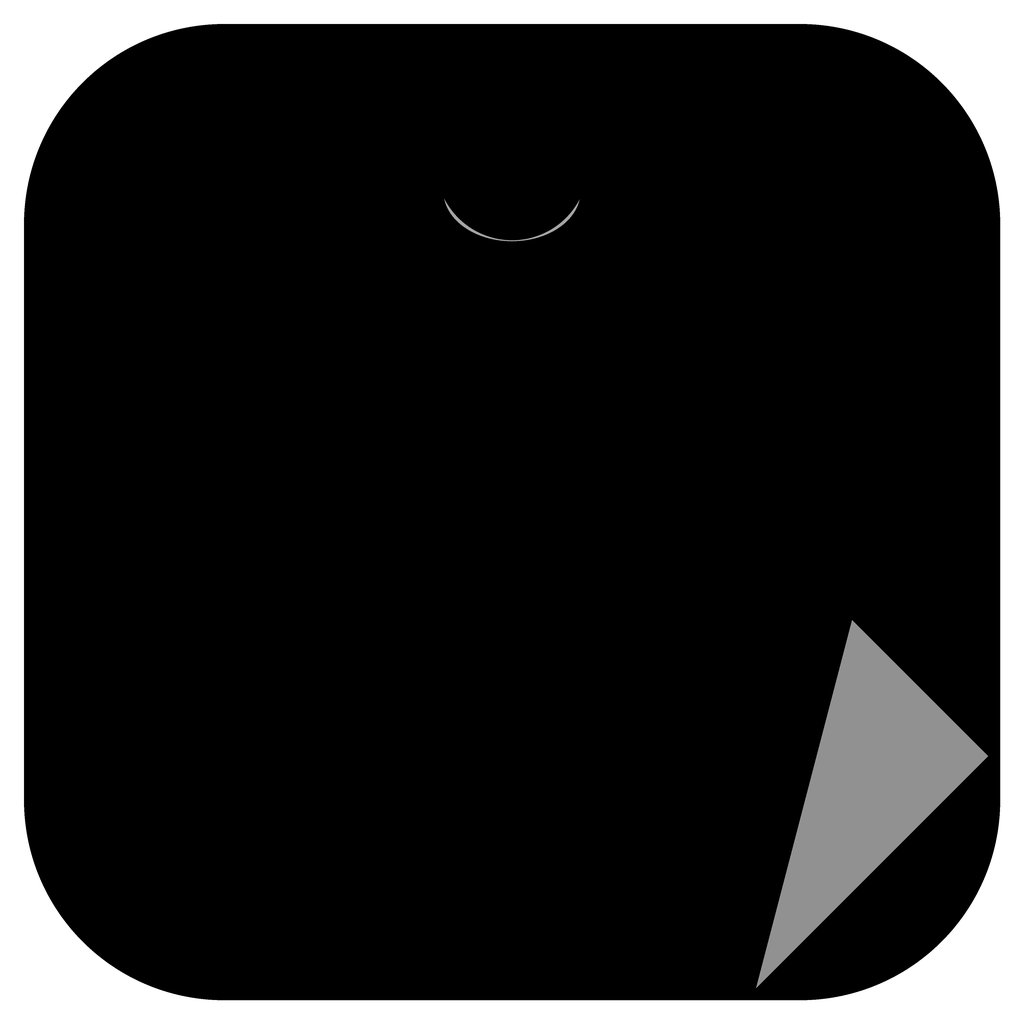
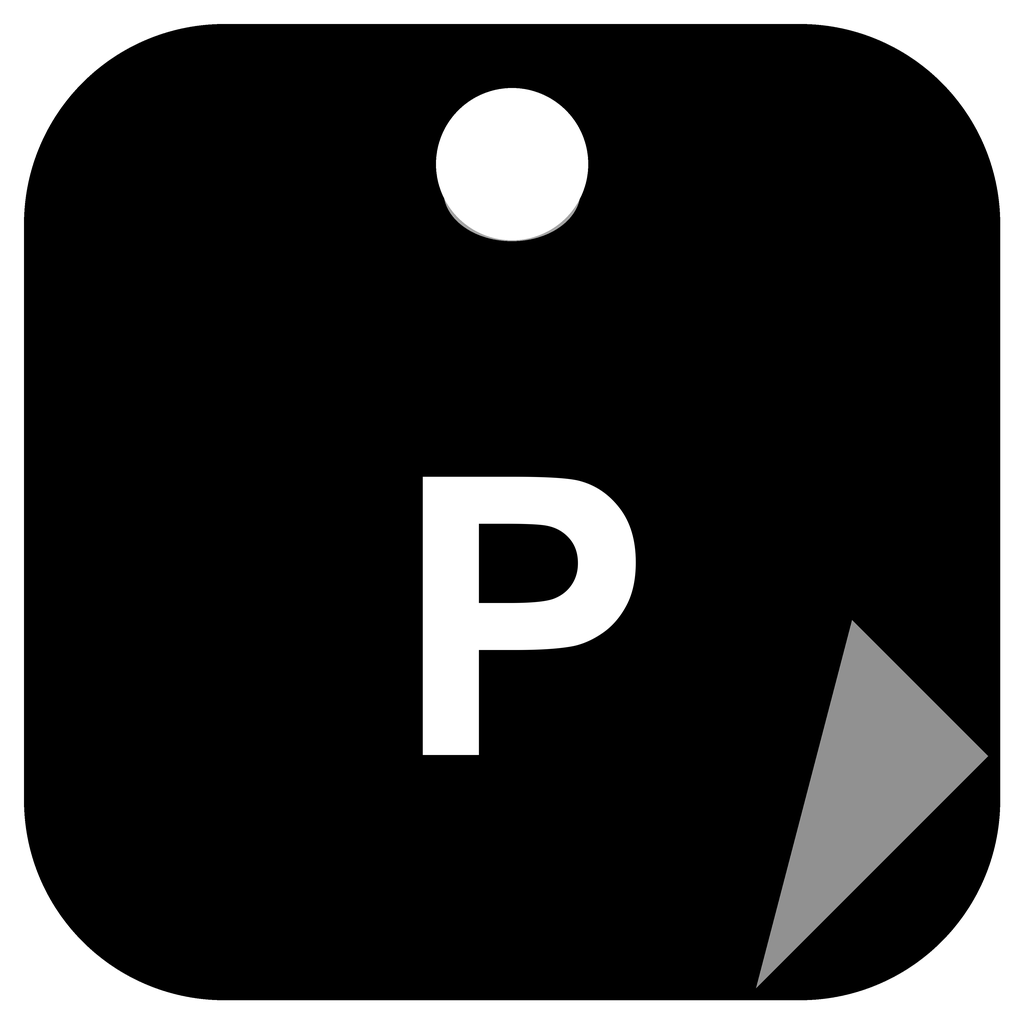
fix(macOS): 菜单栏模板图标加负形镂空(图钉孔/P/卷角)
(synced from private repo cc77d93)

Changed region(s): [[0.4062, 0.4375, 0.625, 0.75], [0.4062, 0.0625, 0.5938, 0.25]]

diff --git a/scripts/gen-icon.py b/scripts/gen-icon.py
@@ -123,7 +123,15 @@ def render(size: int) -> Image.Image:
     # 折痕旁纸面投影（折痕左上侧的窄三角）
     d.polygon([(ax, ay), (bx, by), (bx - int(34 * k), by - int(34 * k))], fill=CURL_SHADOW)
 
-    return img.resize((size, size), Image.LANCZOS)
+    # macOS 菜单栏 template 图标：黑色剪影 + 负形镂空（实心剪影在 18pt 下
+    # 是个无细节的白圆角块,朋友实测反馈）——图钉孔、P 字母、卷角(剪影自带)
+    template = Image.new('RGBA', img.size, (0, 0, 0, 255))
+    template.putalpha(img.getchannel('A'))
+    td = ImageDraw.Draw(template)
+    td.ellipse((px - pr, py - pr, px + pr, py + pr), fill=(0, 0, 0, 0))  # 图钉孔
+    td.text((bx0 + (bx1 - bx0 - tw) / 2 - tb[0], by0 + (by1 - by0 - th) / 2 - tb[1]), 'P', font=font, fill=(0, 0, 0, 0))  # P 负形
+
+    return img.resize((size, size), Image.LANCZOS), template.resize((size, size), Image.LANCZOS)
 
 
 def main() -> None:
@@ -132,12 +140,9 @@ def main() -> None:
     ap.add_argument('--out', default=os.path.join(os.path.dirname(__file__), '..', 'apps', 'desktop', 'resources', 'icon.png'))
     args = ap.parse_args()
     out = os.path.abspath(args.out)
-    img = render(args.size)
+    img, template = render(args.size)
     img.save(out)
     print(f'[gen-icon] ok → {out} ({args.size}x{args.size})')
-    # macOS 菜单栏 template 图标：同轮廓的黑色剪影（系统按深浅菜单栏自动反色）
-    template = Image.new('RGBA', img.size, (0, 0, 0, 255))
-    template.putalpha(img.getchannel('A'))
     t_out = os.path.join(os.path.dirname(out), 'iconTemplate.png')
     template.save(t_out)
     print(f'[gen-icon] ok → {t_out} (template)')
